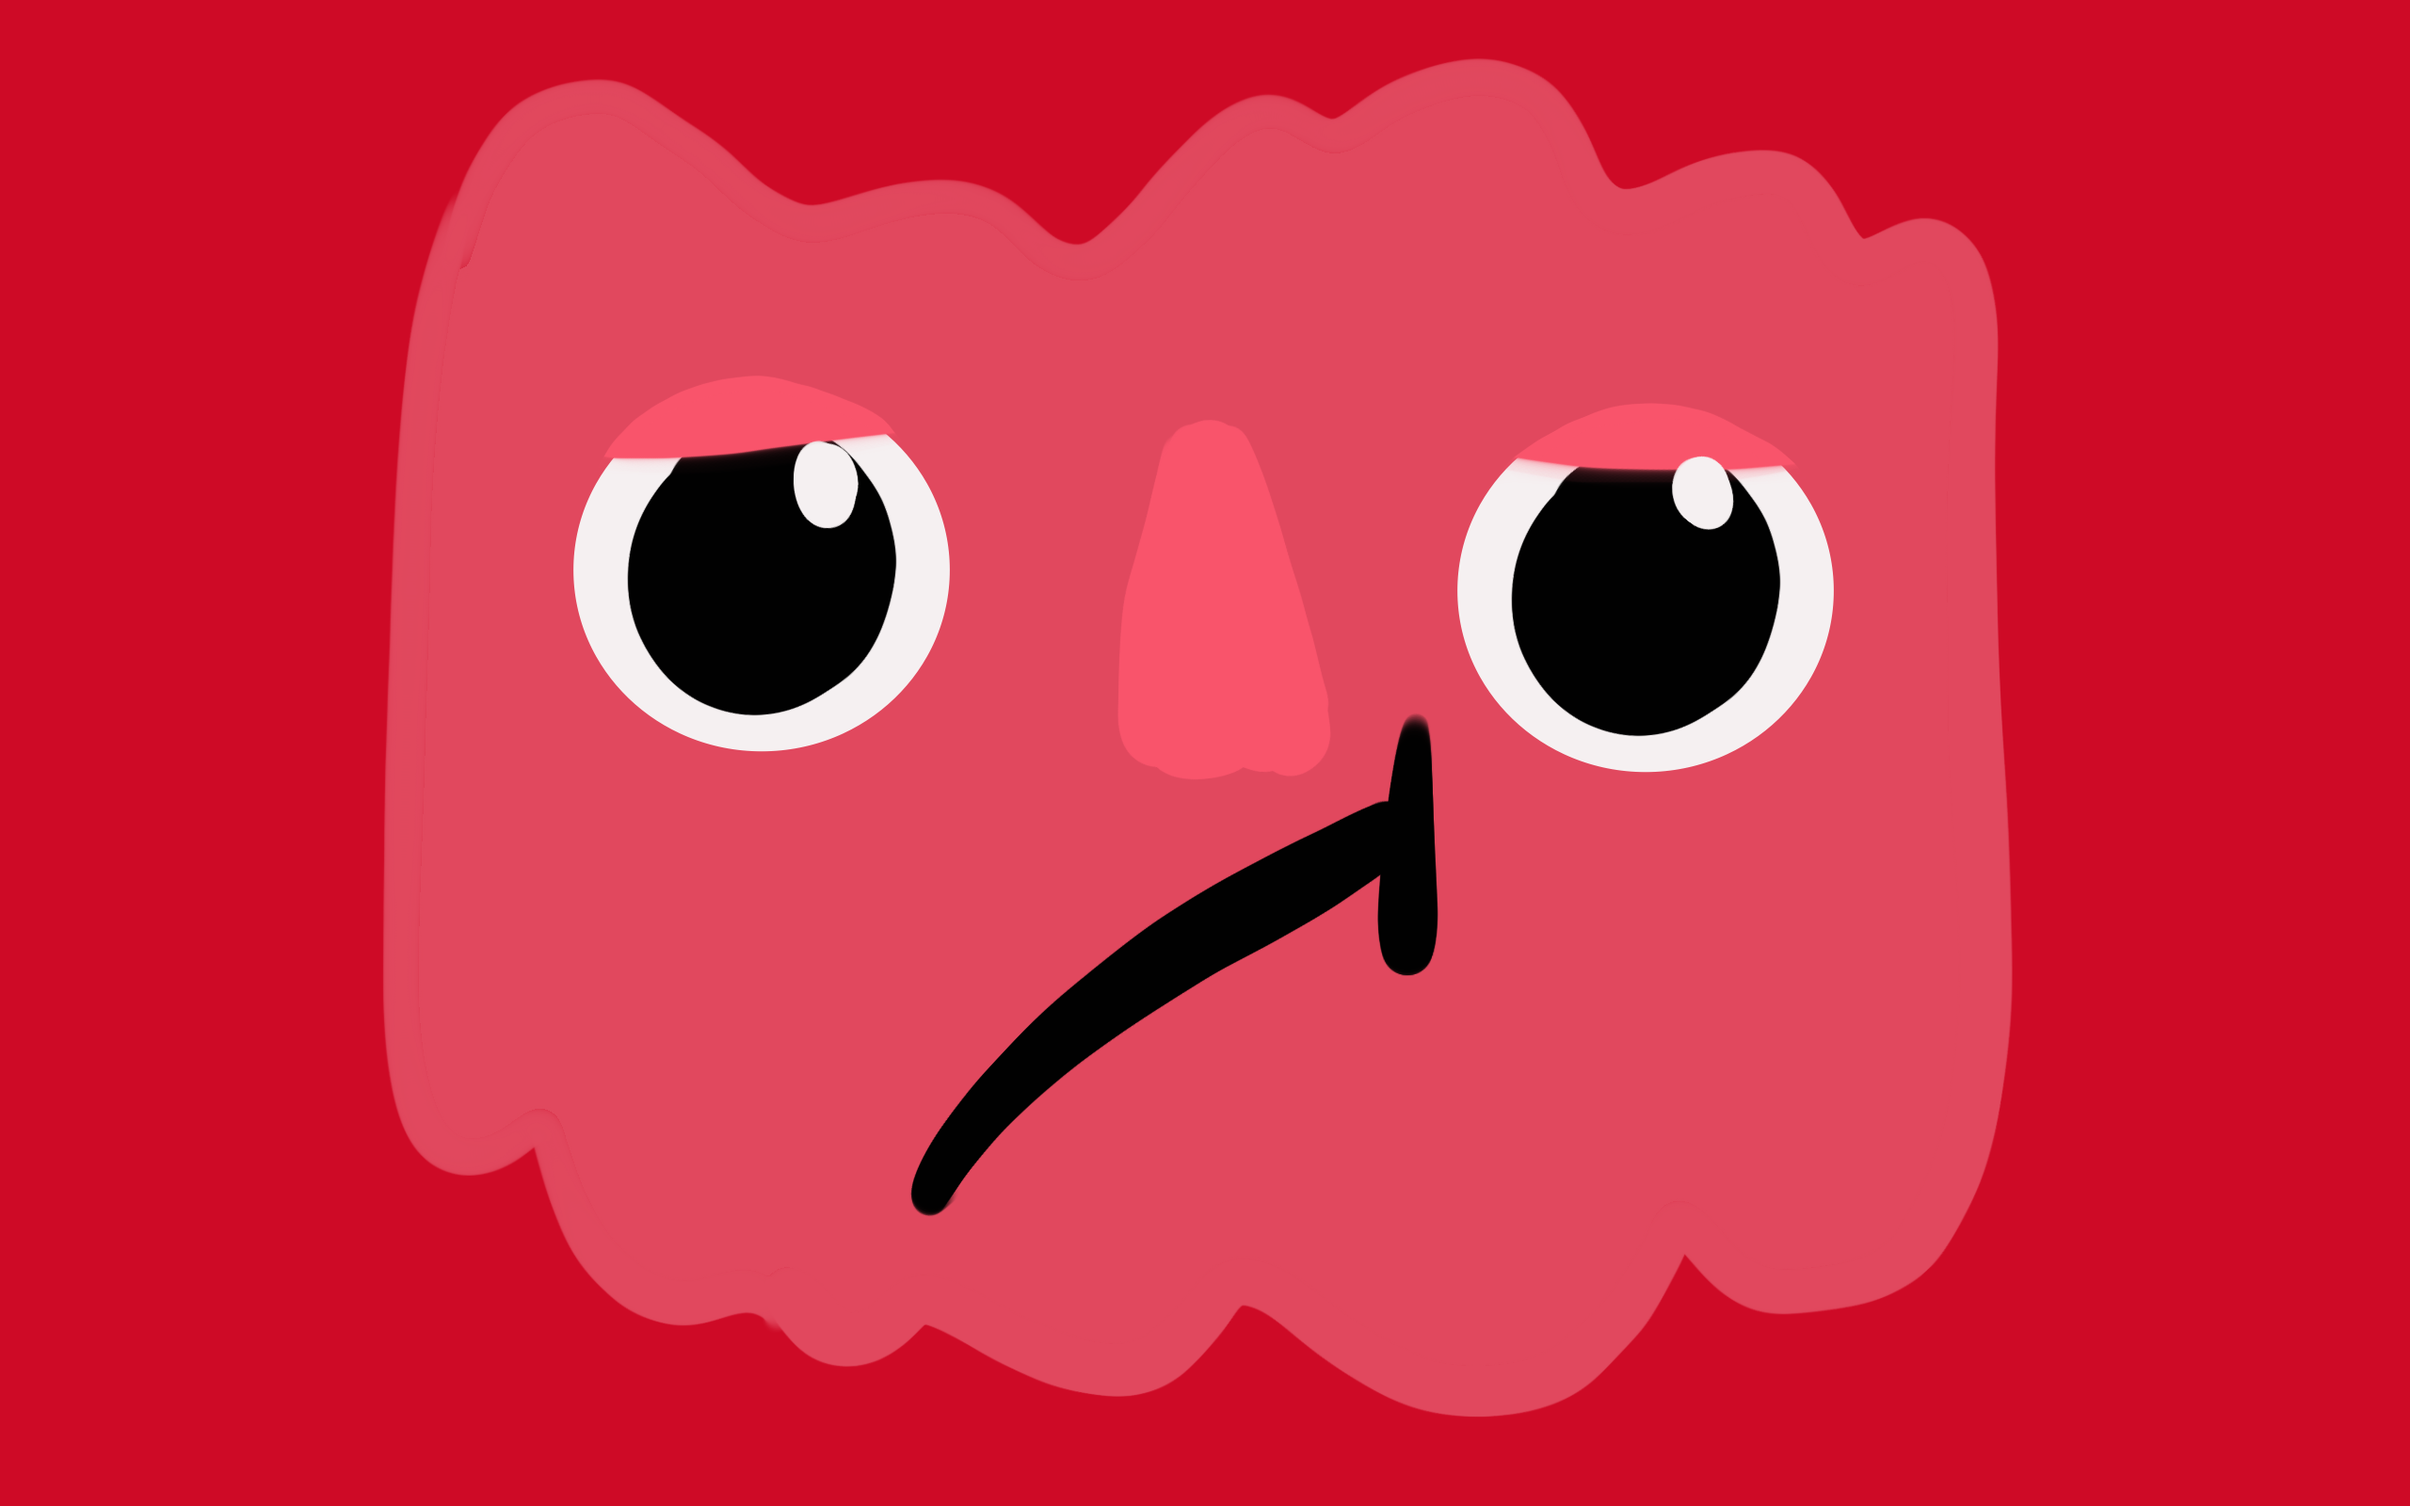
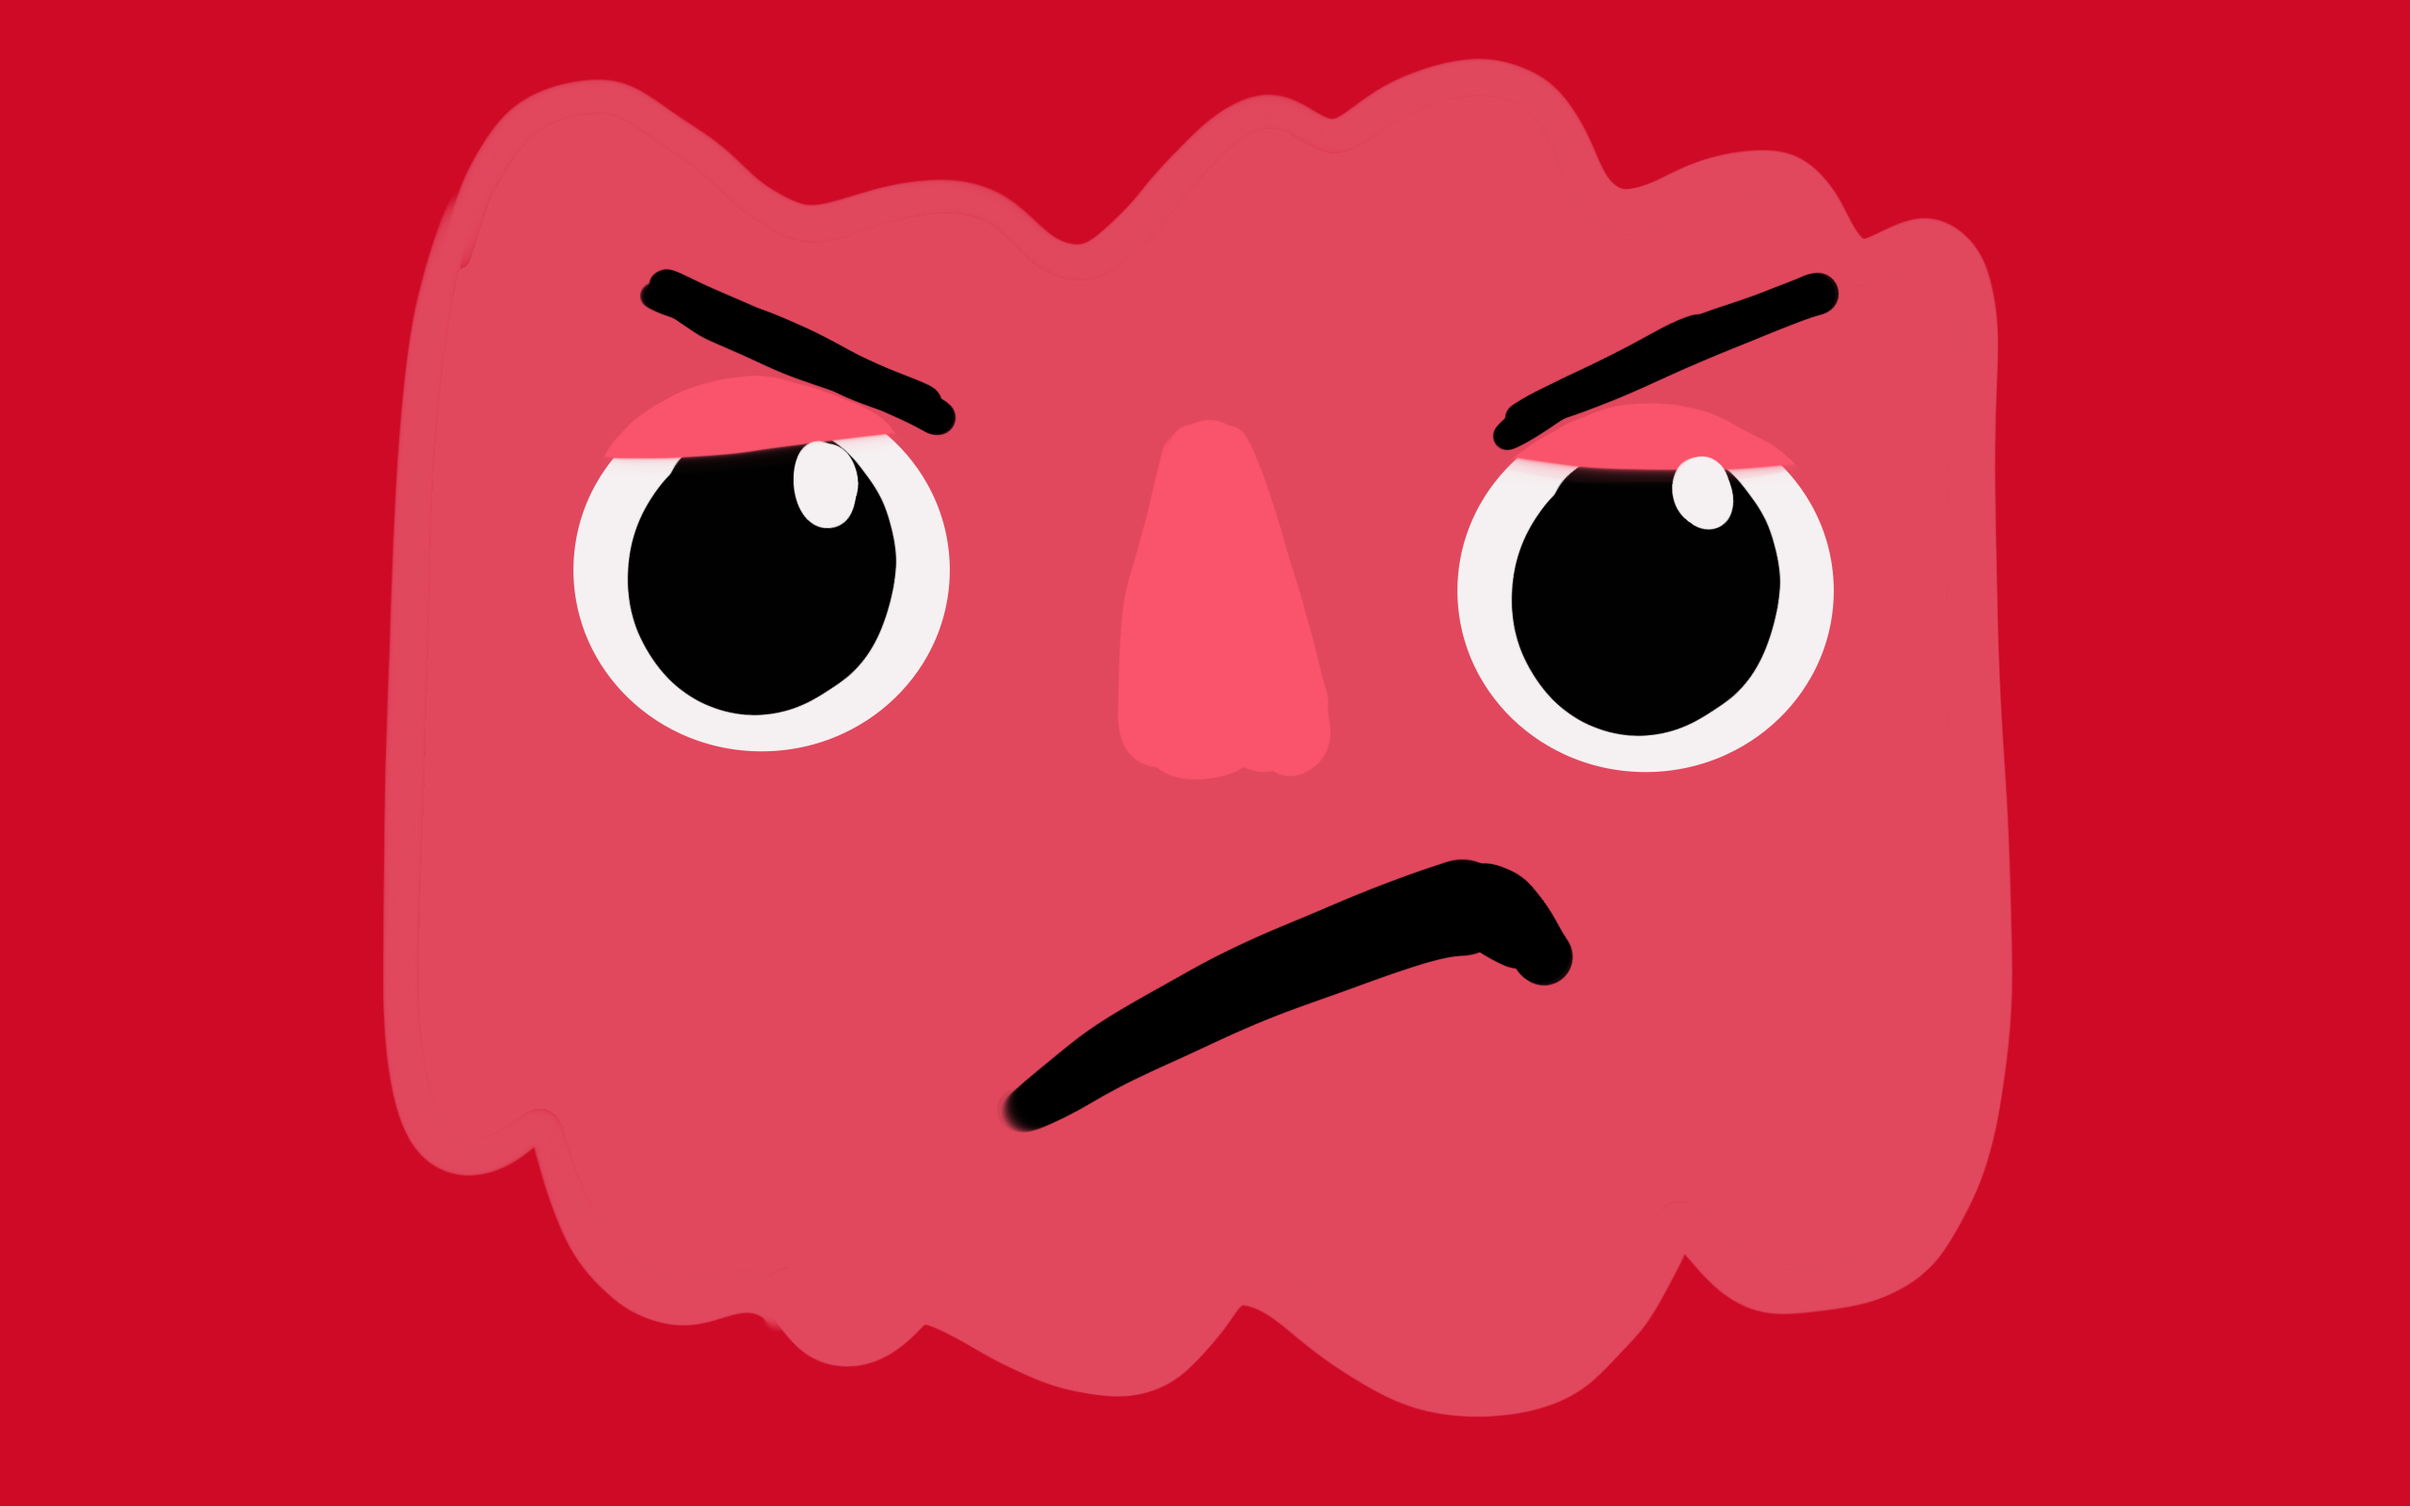
animated 3 moods

Changed region(s): [[0.375, 0.4688, 0.6562, 0.8125], [0.625, 0.1875, 0.7812, 0.3125], [0.25, 0.1875, 0.4062, 0.3125]]

diff --git a/.venv/main.py b/.venv/main.py
@@ -5,23 +5,52 @@ from random import randint
 pygame.init()
 screen = pygame.display.set_mode((800,480))
 clock = pygame.time.Clock()
-animation_speed = 0.5
 
-#angryFace function
-def angryFaceAnimation(screen, angry_face_list, animation_speed):
-    global angry_face_surf, af_index
-    af_index += animation_speed
-    if af_index >= len(angry_face_list):af_index = 0
-    angry_face_surf = angry_face_list[int(af_index)]
-    screen.blit(angry_face_surf, (0, 0))  # Draw the angry face
 
 
 #angryFace
 angry_face_list = [pygame.transform.scale(pygame.image.load(f'graphics/angryFace/{i}.png'), (800, 480)) for i in range(1, 15)]
 af_index = 0
 angry_face_surf = angry_face_list[af_index]
+af_animation_speed = 0.5
 
-#
+#angryFace function
+def angryFaceAnimation(screen, angry_face_list, af_animation_speed):
+    global angry_face_surf, af_index
+    af_index += af_animation_speed
+    if af_index >= len(angry_face_list):af_index = 0
+    angry_face_surf = angry_face_list[int(af_index)]
+    screen.blit(angry_face_surf, (0, 0))  # Draw each frame of the angry face
+
+
+#happyFace
+happy_face_list = [pygame.transform.scale(pygame.image.load(f'graphics/happyFace/{i}.png'), (800,480)) for i in range(1,17)]
+hf_index = 0
+happy_face_surf = happy_face_list[hf_index]
+hf_animation_speed = 0.35
+
+#happyFace function
+def happyFaceAnimation(screen, happy_face_list, hf_animation_speed):
+    global happy_face_surf, hf_index
+    hf_index += hf_animation_speed
+    if hf_index >= len(happy_face_list): hf_index = 0
+    happy_face_surf = happy_face_list[int(hf_index)]
+    screen.blit(happy_face_surf,(0,0))
+
+
+#neutralFace
+neutral_face_list = [pygame.transform.scale(pygame.image.load(f'graphics/neutralFace/{i}.png'), (800,480)) for i in range(1,23)]
+nf_index = 0
+neutral_face_surf = neutral_face_list[nf_index]
+nf_animation_speed = 0.6
+
+#neutralFace function
+def neutralFaceAnimation(screen, neutral_face_list, nf_animation_speed):
+    global neutral_face_surf, nf_index
+    nf_index += nf_animation_speed
+    if nf_index >= len(neutral_face_list): nf_index = 0
+    neutral_face_surf = neutral_face_list[int(nf_index)]
+    screen.blit(neutral_face_surf,(0,0))
 
 
 
@@ -31,7 +60,9 @@ while True:
             pygame.quit()
             exit()
 
-    angryFaceAnimation(screen, angry_face_list, animation_speed)
+    #angryFaceAnimation(screen, angry_face_list, af_animation_speed)
+    #happyFaceAnimation(screen, happy_face_list, hf_animation_speed)
+    neutralFaceAnimation(screen, neutral_face_list, nf_animation_speed)
 
     pygame.display.update()
-    clock.tick(30)
+    clock.tick(30) #this is to control the amount of framerates in the animation
